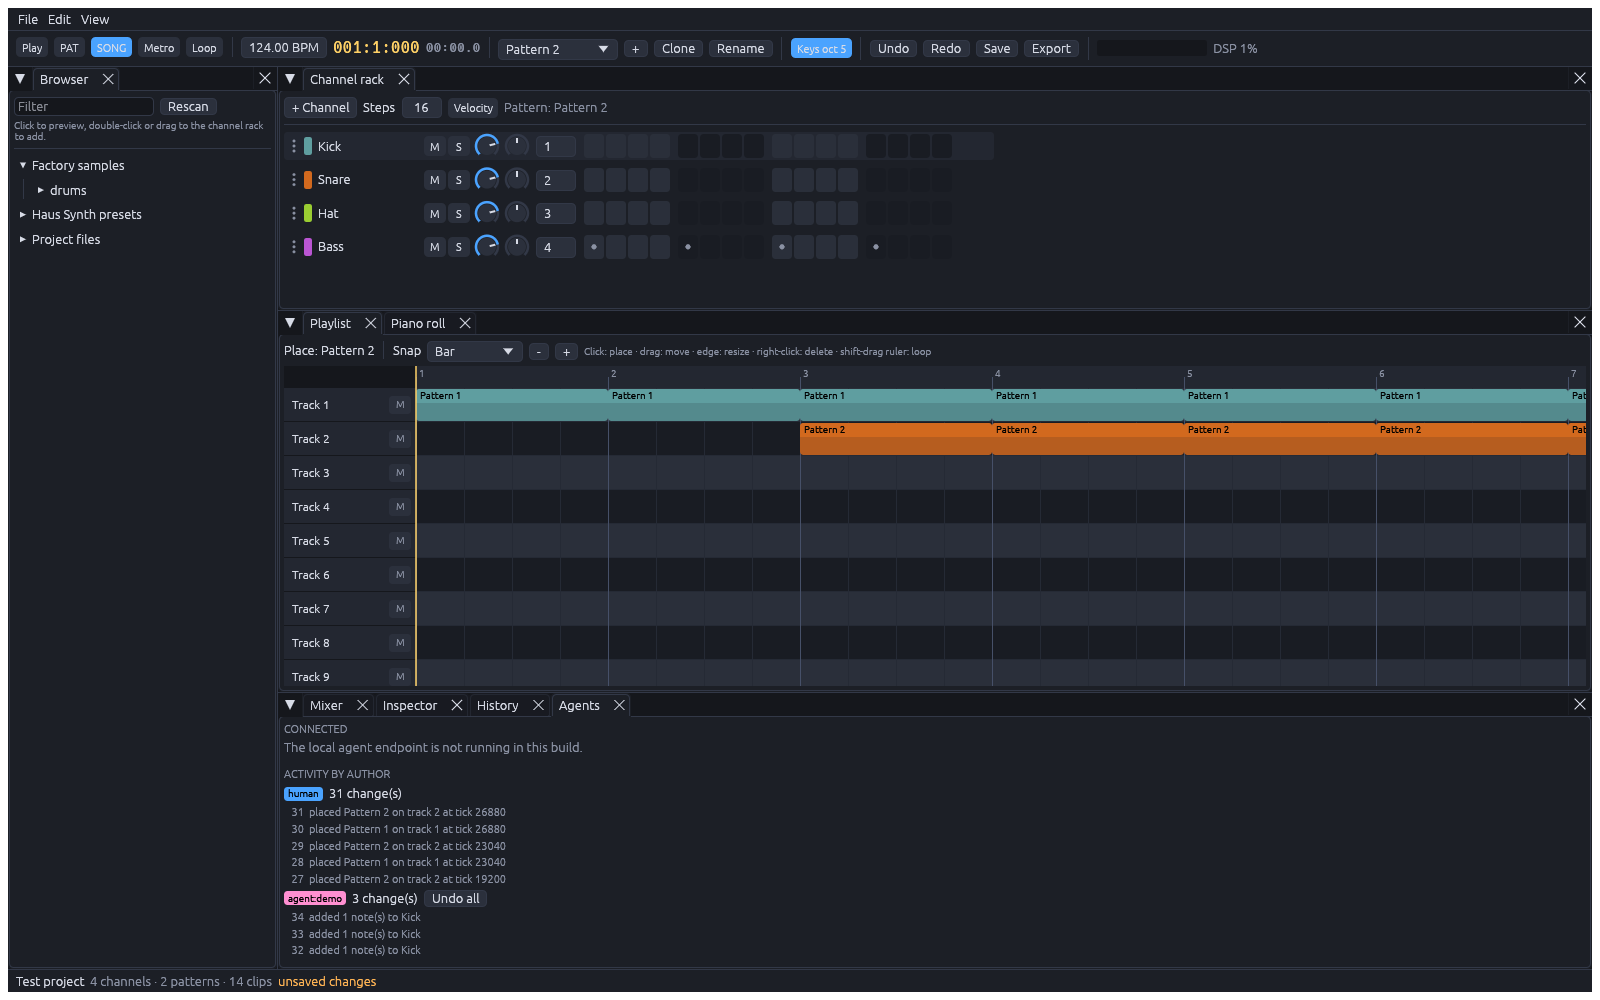
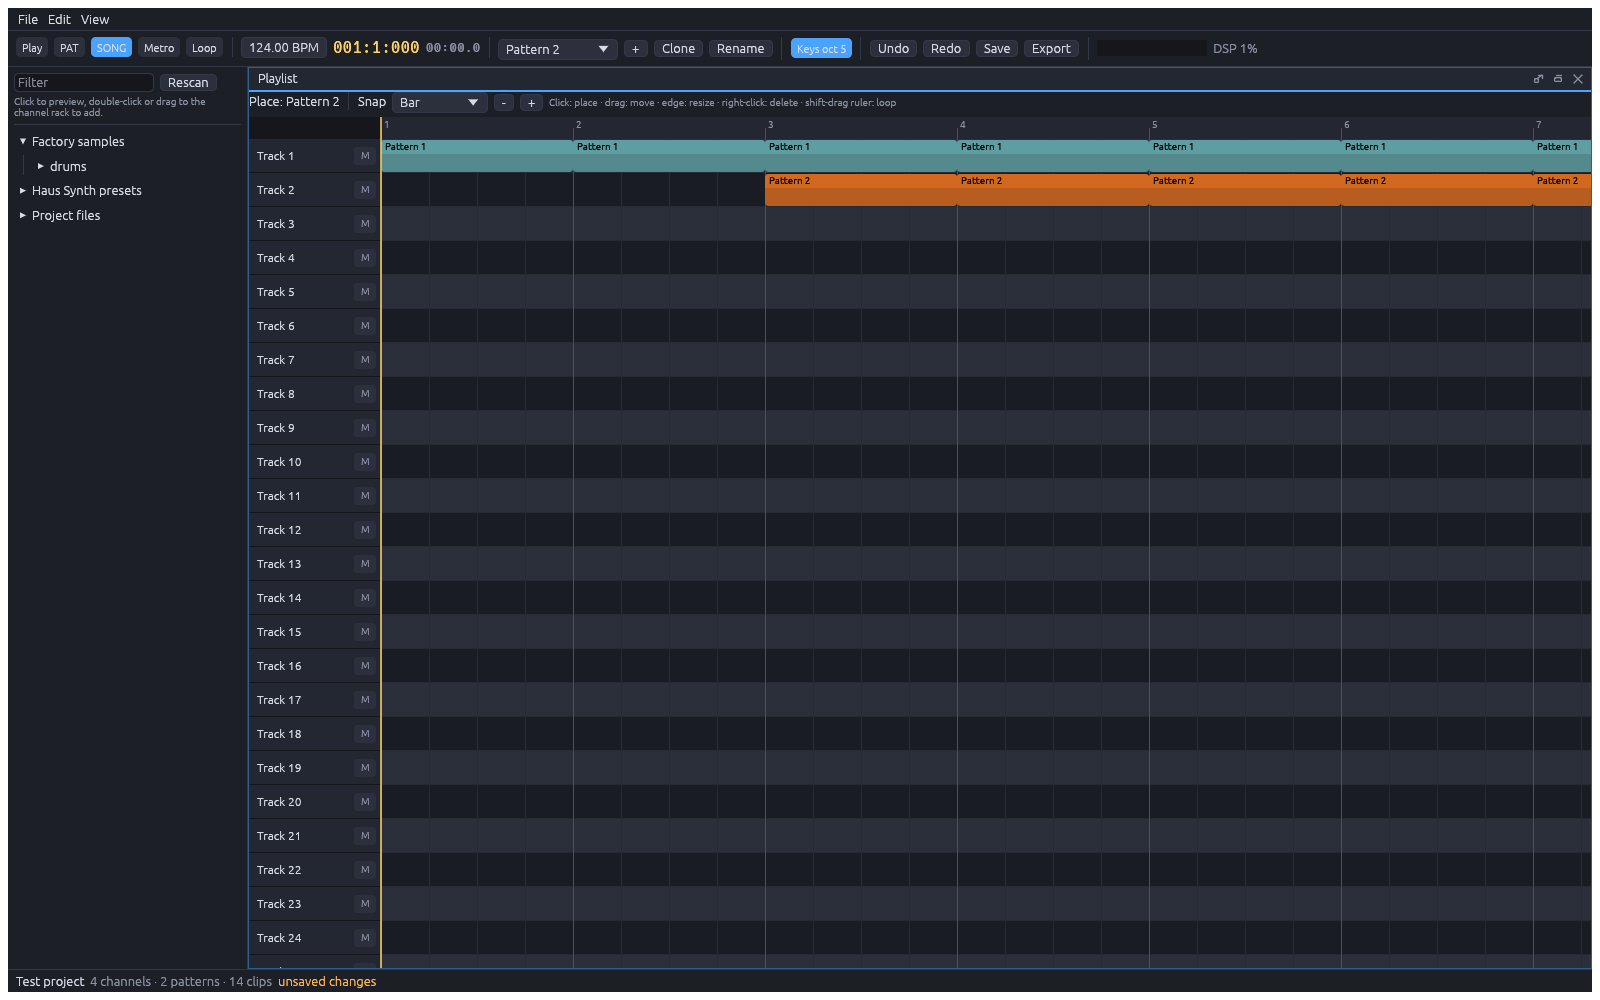
docs/tests: M1 screenshots, manual test and perf label for the new shell
Regenerated docs/screenshots/M1 (adds 12-busy-workspace), updated the
manual test script and parity table, and measured the 10k-note roll in a
floating window.

diff --git a/crates/ph-ui/tests/screens.rs b/crates/ph-ui/tests/screens.rs
@@ -6,7 +6,9 @@ mod common;
 use common::*;
 use egui::Key;
 use egui_kittest::Harness;
+use ph_core::InsertId;
 use ph_ui::core::PanelId;
+use ph_ui::workspace::WindowId;
 use ph_ui::{PhApp, demo_agent, mapping};
 use std::path::PathBuf;
 use std::time::{Duration, Instant};
@@ -105,6 +107,21 @@ fn focus(h: &mut H, p: PanelId) {
     h.step();
 }
 
+/// Hides every floating window except these (the playlist background stays), then shows them in
+/// the given order, the last one in front.
+fn only(h: &mut H, keep: &[WindowId]) {
+    let ws = &mut h.state_mut().ws;
+    for id in ws.ids().collect::<Vec<_>>() {
+        if id != WindowId::Playlist {
+            ws.hide(id);
+        }
+    }
+    for id in keep {
+        ws.show(*id);
+    }
+    h.step();
+}
+
 #[test]
 fn screenshots_of_the_beat() {
     let (fx, ids) = fixture(true);
@@ -119,7 +136,7 @@ fn screenshots_of_the_beat() {
     app.core.fix_selection();
     let mut h = harness(app, 1600.0, 1000.0);
 
-    // the default layout: browser, rack, playlist, mixer
+    // the default layout: browser docked, playlist as the background, the rack floating
     shot(&mut h, "01-overview-dark");
     focus(&mut h, PanelId::PianoRoll);
     // an agent edits the kick while we look: its notes flash with an author badge
@@ -131,19 +148,42 @@ fn screenshots_of_the_beat() {
     h.state_mut().core.sel.pattern = Some(ids.bassline);
     h.state_mut().core.fix_selection();
     shot(&mut h, "02b-piano-roll-bass");
-    focus(&mut h, PanelId::Inspector);
-    h.state_mut().core.sel.channel = Some(ids.bass);
+    only(&mut h, &[WindowId::Instrument(ids.bass)]);
     shot(&mut h, "03-instrument-synth");
-    h.state_mut().core.sel.channel = Some(ids.kick);
+    only(&mut h, &[WindowId::Instrument(ids.kick)]);
     shot(&mut h, "04-instrument-sampler-waveform");
     focus(&mut h, PanelId::History);
     shot(&mut h, "05-history");
     focus(&mut h, PanelId::Agents);
     shot(&mut h, "06-agents");
+    only(&mut h, &[]);
     focus(&mut h, PanelId::Playlist);
     shot(&mut h, "07-playlist");
-    focus(&mut h, PanelId::Mixer);
+    // the mixer keeps strips and routing; an effect slot opens its own window with the knobs
+    only(&mut h, &[WindowId::Mixer, WindowId::Effect(InsertId(4), 1)]);
     shot(&mut h, "08-mixer-effects");
+
+    // a busy workspace: overlapping windows, two instrument windows open side by side
+    only(
+        &mut h,
+        &[
+            WindowId::ChannelRack,
+            WindowId::PianoRoll,
+            WindowId::Instrument(ids.kick),
+            WindowId::Instrument(ids.bass),
+            WindowId::Effect(InsertId(4), 0),
+        ],
+    );
+    {
+        let ws = &mut h.state_mut().ws;
+        ws.drag_move(WindowId::ChannelRack, 20.0, 20.0);
+        ws.drag_move(WindowId::PianoRoll, 330.0, 170.0);
+        ws.drag_move(WindowId::Instrument(ids.kick), 20.0, 300.0);
+        ws.drag_move(WindowId::Instrument(ids.bass), 560.0, 60.0);
+        ws.drag_move(WindowId::Effect(InsertId(4), 0), 900.0, 330.0);
+        ws.focus(WindowId::Instrument(ids.bass));
+    }
+    shot(&mut h, "12-busy-workspace");
 
     // conflict dialog on top of the history: the human edits the agent's newest note, then
     // asks to undo the agent
@@ -200,8 +240,8 @@ fn wait(h: &mut H, f: &dyn Fn(&PhApp) -> bool) -> bool {
     false
 }
 
-fn docked(h: &H, p: PanelId) -> bool {
-    h.state().dock.iter_all_tabs().any(|(_, t)| *t == p)
+fn shown(h: &H, p: PanelId) -> bool {
+    h.state().panel_visible(p)
 }
 
 #[test]
@@ -230,24 +270,24 @@ fn keys_drive_commands_through_real_egui_events() {
         "space stops it"
     );
 
-    // F7: the piano roll starts as a background tab, so the first press brings it to the front
-    // and the second hides it; the third shows it again.
-    assert!(docked(&h, PanelId::PianoRoll));
+    // F7: the piano roll starts hidden, so the first press shows it in front and the second
+    // hides it; the third shows it again.
+    assert!(!shown(&h, PanelId::PianoRoll));
     h.key_press(Key::F7);
     h.step();
     h.step();
-    assert!(docked(&h, PanelId::PianoRoll));
+    assert!(shown(&h, PanelId::PianoRoll));
     h.key_press(Key::F7);
     h.step();
     h.step();
     assert!(
-        !docked(&h, PanelId::PianoRoll),
+        !shown(&h, PanelId::PianoRoll),
         "second F7 hides the front piano roll"
     );
     h.key_press(Key::F7);
     h.step();
     h.step();
-    assert!(docked(&h, PanelId::PianoRoll));
+    assert!(shown(&h, PanelId::PianoRoll));
 
     // Ctrl+Z reverts the human's last change, Ctrl+Y brings it back
     let before = h.state().core.project.settings.bpm;
@@ -328,12 +368,12 @@ fn big_project_stays_interactive() {
         );
         avg
     };
-    let a = report(&mut h, "100 channels, 50 patterns, default layout");
+    let a = report(&mut h, "100 channels, 50 patterns, default workspace");
     focus(&mut h, PanelId::PianoRoll);
     h.state_mut().core.sel.pattern = Some(ph_core::PatternId(0));
     h.state_mut().core.sel.channel = Some(ph_core::ChannelId(3));
     h.state_mut().core.fix_selection();
-    let b = report(&mut h, "10 000-note piano roll in the full layout");
+    let b = report(&mut h, "10 000-note piano roll in a floating window");
     if h.render().is_ok() {
         // GPU side: scroll the 10 000-note roll every frame and render the whole window offscreen
         let mut gpu = Vec::new();

diff --git a/docs/manual-tests/M1-ui.md b/docs/manual-tests/M1-ui.md
@@ -32,8 +32,9 @@ Options:
 | `--library DIR` | An extra sample folder for the browser (repeatable) |
 | `--config DIR` | Where keymap, layout and theme are kept. Default `%APPDATA%\patternhaus` |
 
-Expected: a dark window with the transport bar on top, the browser on the left, the channel rack
-above the playlist and piano roll tabs, and the mixer, inspector, history and agents tabs below.
+Expected: a dark window with the transport bar on top and the browser docked on the left. The
+playlist fills the rest of the window as the background, and the channel rack floats over it at the
+upper left. The piano roll, mixer, history and agents are hidden until you press their keys.
 
 ## Part 1: build the beat
 
@@ -60,8 +61,8 @@ above the playlist and piano roll tabs, and the mixer, inspector, history and ag
    the selected channel as a piano. `-` and `=` shift the octave (shown in the "Keys oct" button).
    `Ctrl+T` turns the typing keyboard off.
 7. **Mixer (F9).** Click insert 4 (the synth's insert, shown in the rack's number box). In the
-   panel on the right choose "+ Add effect": **eq**, then **compressor**. Click an effect to see its
-   knobs. Drag a knob, release: the value is set (double-click resets it). Click "Byp" to bypass.
+   panel on the right choose "+ Add effect": **eq**, then **compressor**. Click an effect to open its
+   window of knobs. Drag a knob, release: the value is set (double-click resets it). Click "Byp" to bypass.
    On insert 5 add a **reverb**. Then click the snare's insert (2), choose "+ Add send", pick
    insert 5, and drag the send knob to about -8 dB. Optional: set the compressor's sidechain with the
    "Sidechain from" box on insert 4.
@@ -88,8 +89,10 @@ above the playlist and piano roll tabs, and the mixer, inspector, history and ag
 
 ## Part 2: shortcuts, remapping, themes, layouts
 
-- **F5 F6 F7 F8 F9** show the Playlist, Channel rack, Piano roll, Browser and Mixer. When one is
-  already in front, the key hides it. F10 Inspector, Ctrl+H History, Ctrl+Shift+A Agents.
+- **F5 F6 F7 F9** show the Playlist, Channel rack, Piano roll and Mixer, and **F8** the docked
+  browser. A hidden window appears in front; one that is open but behind another comes to the front;
+  one that is already in front is hidden. F10 opens the selected channel's instrument window,
+  Ctrl+H History, Ctrl+Shift+A Agents. **Esc** closes the front instrument or effect window.
 - **Ctrl+Z / Ctrl+Y** undo and redo *your own* changes. Ctrl+S saves, Ctrl+N new, Ctrl+O open,
   Ctrl+L clones the selected pattern, Space plays and stops, L switches pattern and song mode,
   Ctrl+M toggles the metronome.
@@ -99,10 +102,23 @@ above the playlist and piano roll tabs, and the mixer, inspector, history and ag
 - View, Theme: Dark or Light. User themes are TOML files of tokens (see
   `crates/ph-ui/themes/dark.toml`); put `theme = "C:/path/to/my-theme.toml"` in
   `settings.toml` in the config folder.
-- **Layouts.** Drag a tab to dock it elsewhere or float it. Right-click a tab, "Move to its own
-  window" makes a real OS window you can put on another monitor; close that window and the panel
-  docks again. View, Layout: "Save for me" (also saved on exit), "Save with this project"
-  (`layout.ron` in the project folder, which takes priority), "Reset to default".
+- **Windows.** Every panel is a floating window inside the workspace:
+  - drag a title bar to move it; drag any edge or corner to resize it (there is a minimum size);
+  - a window snaps to the workspace edges and to other windows when you bring it within a few
+    pixels, and its title bar can never be dragged out of reach;
+  - click anywhere on a window behind another to bring it to the front;
+  - double-click a title bar (or use the square button) to maximize it inside the workspace;
+    do it again to restore. The cross closes it. The first button sends it to its own OS window you
+    can put on another monitor; close that OS window and it returns to the workspace;
+  - the browser is docked at the left; drag its right edge to resize it, F8 to hide it.
+- **Instrument and effect windows.** Click a channel's name in the rack: its instrument window
+  (sampler or Haus Synth) opens. Click another channel and both stay open. In the mixer, click an
+  effect slot: that effect's window opens with all its knobs. Each remembers where you put it.
+  Deleting the channel (or removing the effect) closes its window.
+- **Layouts.** View, Layout: "Save for me" (also saved on exit), "Save with this project"
+  (`layout.ron` in the project folder, which takes priority), "Reset to default". A saved layout
+  keeps every window's position, size, stacking order and whether it is open. Shrink the app window
+  and the windows stay reachable.
 - **DPI.** Move the window between monitors of different scale: text and controls stay sharp.
   The theme's `scale` token multiplies on top of the OS scale.
 
@@ -119,7 +135,7 @@ cargo run --release -p ph-app -- C:\Users\you\beats\first --demo-agent
    the roll outlines the note the agent pointed at (`ui.select`). A toast says what it did.
 2. Keep working (add your own notes, change velocities). The agent keeps going; neither of you
    blocks the other.
-3. Open the **History** tab (Ctrl+H). Rows are tagged `human` (blue) or `agent:demo` (pink), with the
+3. Open the **History** window (Ctrl+H). Rows are tagged `human` (blue) or `agent:demo` (pink), with the
    time. "Undo mine" reverts only your last change. "Undo all by agent:demo" reverts only the
    agent's changes, newest first. The "Undo" button on a row reverts that one transaction.
    Expected after "Undo all by agent:demo": your notes remain, the agent's are gone.
@@ -131,7 +147,7 @@ cargo run --release -p ph-app -- C:\Users\you\beats\first --demo-agent
    - **Skip these objects**: everything else the agent did is undone; your edited note stays.
    - **Force**: your edit is overwritten too, and the note goes away.
    (Try each; repeat step 4 for each choice.)
-5. **Agents tab (Ctrl+Shift+A).** Without the T4 endpoint it says "The local agent endpoint is not
+5. **Agents window (Ctrl+Shift+A).** Without the T4 endpoint it says "The local agent endpoint is not
    running in this build" and shows activity per author. With T4 merged (see the AGENT HOOK in
    `crates/ph-app/src/main.rs`) it lists connected clients with scopes and shows the grant prompt
    (Allow / Read only / Deny) when a new client connects.
@@ -144,4 +160,4 @@ cargo run --release -p ph-app -- C:\Users\you\beats\first --demo-agent
 - Clicking in the browser plays the sample at once; typing-keyboard notes have no noticeable delay.
 - Anything that looks off in the dark or light theme.
 
-Report anything unexpected with the steps that led to it and the contents of the History tab.
+Report anything unexpected with the steps that led to it and the contents of the History window.

diff --git a/docs/parity/fl-studio.md b/docs/parity/fl-studio.md
@@ -45,7 +45,7 @@ Behaviour is observed by using FL as a normal user. Never decompile it.
 | Files | Export WAV / FLAC | `file.export_audio` (renders through `Host::render`) | |
 | Files | MIDI import / export | `file.import_midi` `file.export_midi` | |
 | History | Undo / redo | `history.undo` `history.redo` `history.undo_author` `history.undo_txn` `history.list` | differs: per-author (DESIGN §3) |
-| UI | Docked panels, floating and multi-monitor windows, saved layouts | `ph-ui` `app` (egui_dock; tab menu "Move to its own window"; layouts per user and per project) | |
+| UI | Floating windows, snapping, maximize, instrument and effect windows, multi-monitor windows, saved layouts | `ph-ui` `workspace` (pure window-manager model) and `windows` (egui rendering): floating, overlapping, snapping windows; maximize; detach to an OS window; layouts per user and per project | |
 | UI | Browser: factory kits, presets, project and library files; click to preview; drag to the rack | `ph-ui` `panels::browser`; `channel.add` | |
 | UI | Step velocity view | `step.set_velocity` | |
 | UI | Dark and light themes, user theme files | TOML tokens, `ph-ui` `theme` | |
